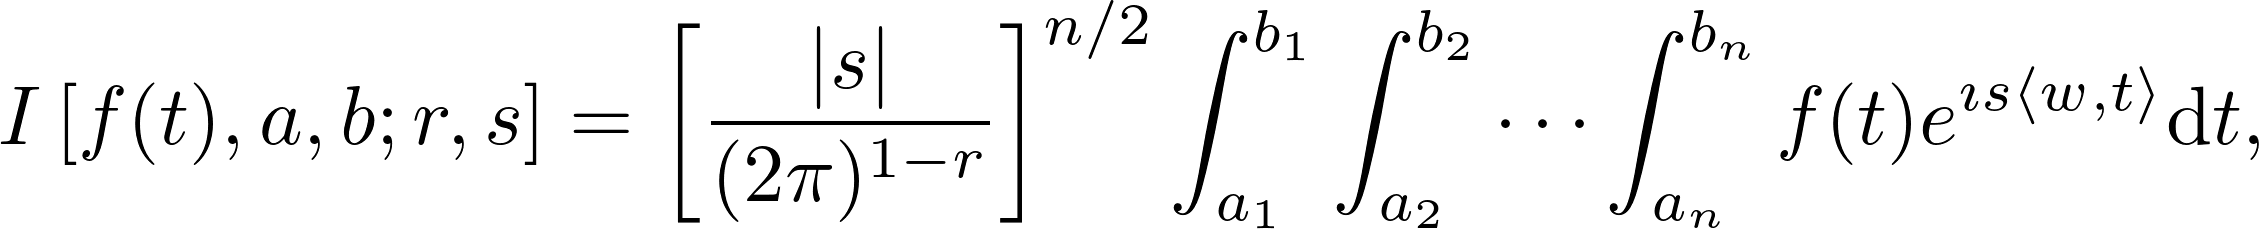
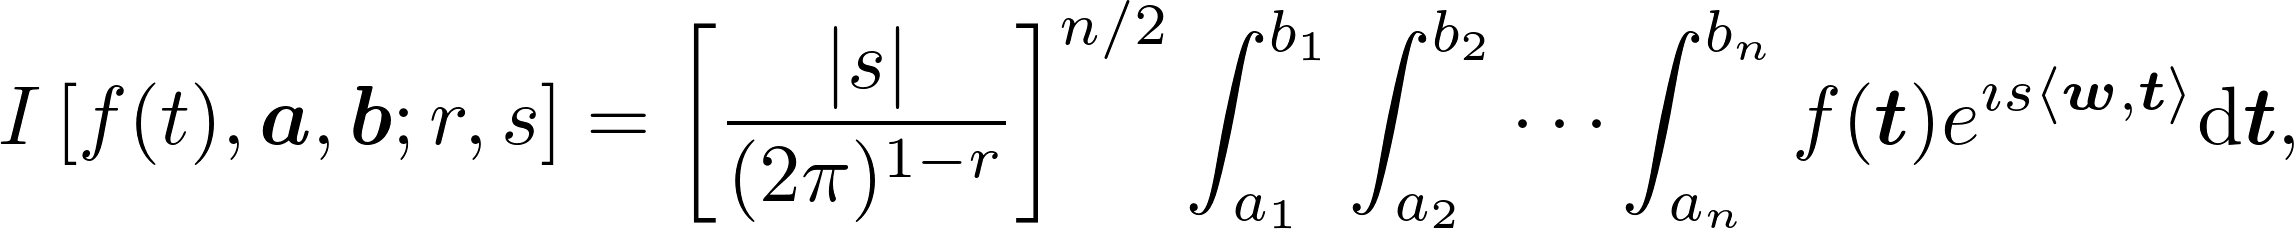
Adding second image and correcting size of the first in README.

diff --git a/README.md b/README.md
@@ -1,6 +1,5 @@
 # fourierin
 Guillermo Basulto-Elias  
-January 26, 2016  
 
 This is a package in `R` to numerically calculate Fourier-type integrals of multivariate functions with compact support. Specifically, integrals of the type
 
@@ -13,17 +12,19 @@ I \left[f(t), \boldsymbol{a}, \boldsymbol{b};r, s \right]
   \langle \boldsymbol{w}, \boldsymbol{t}\rangle} \text{d}\boldsymbol{t},
 $$
 -->
-
-![Caption for the picture.](eq01_main_eq.png)
-
+<img src="eq01_main_eq.png" height="800px" width="600px" />
 
 where,
+
+<!--
 $\boldsymbol{a} = (a_1, \ldots, a_n)$, 
 $\boldsymbol{b} = (b_1, \ldots, b_n)$, 
 $\boldsymbol{t} = (t^{(1)}, \ldots, t^{(n)})$, 
 $\boldsymbol{w} = (w^{(1)}, \ldots, w^{(n)})$, 
 $a_l \leq t^{(l)} \leq b_l$,
 $c_l \leq w^{(l)} \leq c_l$.
+-->
+<img src="eq02_details.png" height="300px" width="250px" />
 
 Common values for $r$ are -1, 0 and -1, while common values for $s$ are $-2\pi$, -1, 1 and $2\pi$. For example, if $f$ is a density function, $s = 1$ and $r = 1$ could be used to obtain the characteristic function of $f$. Conversely, if $f$ is the characteristic function of a probability density function, then $r = -1$ and $s = -1$ could be used to recover the density.
 
